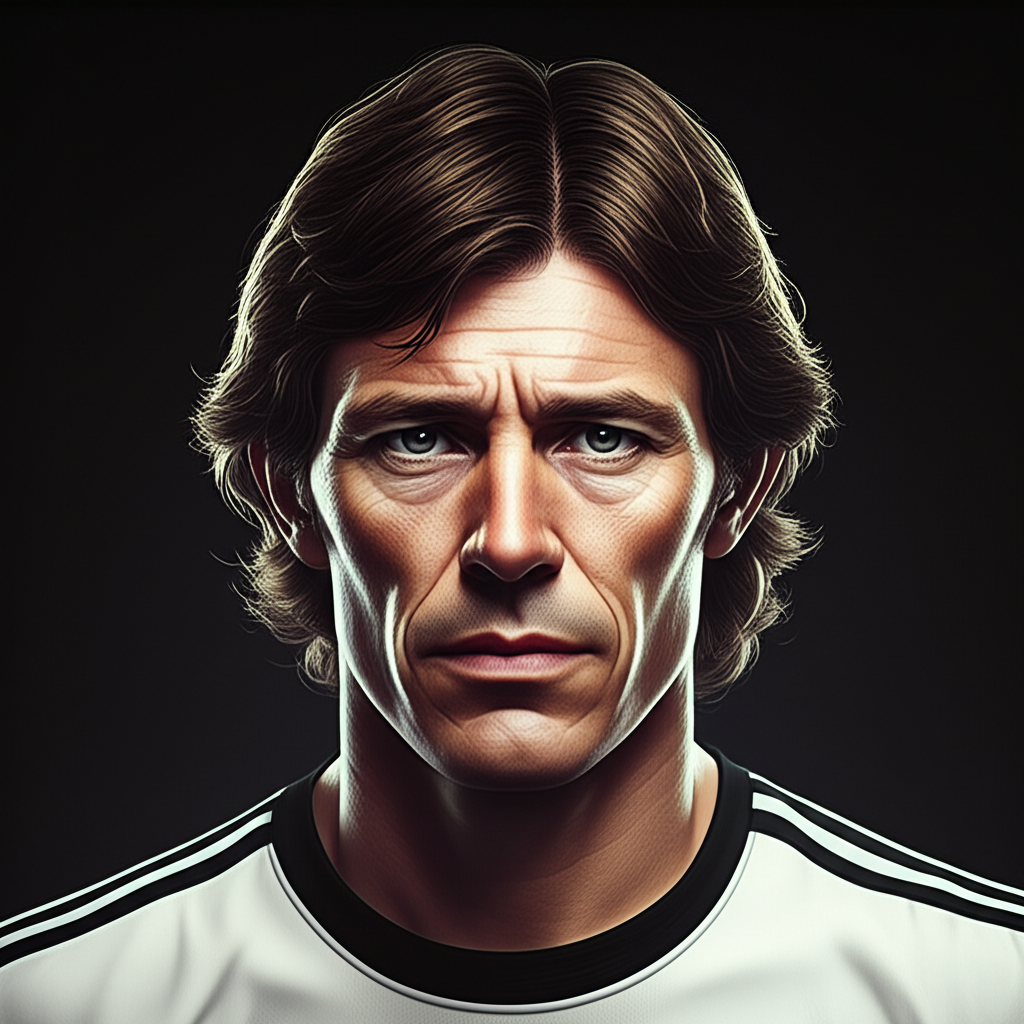
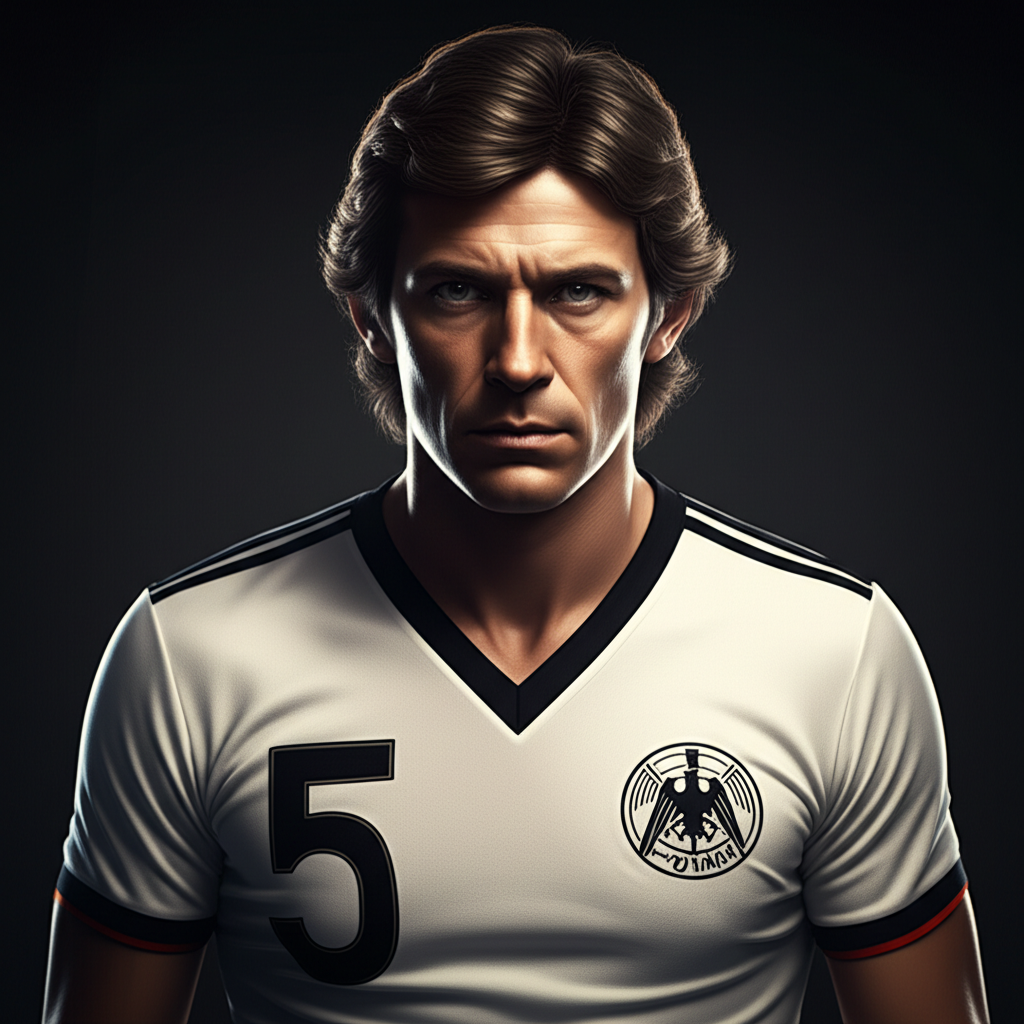
Regenerate legend images with head-to-waist shots
- Updated prompts to show full torso from head to waist
- Jerseys and kit numbers now clearly visible
- Prepares for merchandise showcase feature
- All 15 legends regenerated with new format

diff --git a/scripts/generate-images.ts b/scripts/generate-images.ts
@@ -140,81 +140,81 @@ const images: ImageSpec[] = [
     prompt: 'Professional product photo of black sports backpack with gold accents and logo, athletic style, on dark background, e-commerce style, centered'
   },
 
-  // LEGENDS - F1-Style Player Portraits (upper body, professional sports photography)
+  // LEGENDS - F1-Style Player Portraits (head to waist, showing jersey/kit)
   {
     filename: 'pele.png',
     folder: 'legends',
-    prompt: 'Professional sports portrait photo, Brazilian football legend, upper body shot from chest up, wearing yellow Brazil national team jersey, confident expression looking slightly to the side, clean dark gradient studio background, dramatic rim lighting, high-end sports photography style like F1 driver portraits, 4k quality'
+    prompt: 'Professional sports portrait, Brazilian football legend, HEAD TO WAIST shot showing full torso, wearing iconic yellow Brazil national team jersey with green trim and number 10, arms relaxed at sides, confident proud stance, clean dark gradient studio background, dramatic rim lighting, F1 driver portrait style showing full racing suit, 4k quality, jersey clearly visible'
   },
   {
     filename: 'maradona.png',
     folder: 'legends',
-    prompt: 'Professional sports portrait photo, Argentine football legend with curly dark hair, upper body shot from chest up, wearing Argentina blue and white striped jersey, intense passionate expression, clean dark gradient studio background, dramatic rim lighting, high-end sports photography style like F1 driver portraits, 4k quality'
+    prompt: 'Professional sports portrait, Argentine football legend with curly dark hair, HEAD TO WAIST shot showing full torso, wearing Argentina blue and white vertical striped jersey with number 10, arms crossed or at sides, passionate intense expression, clean dark gradient studio background, dramatic rim lighting, F1 driver portrait style, 4k quality, jersey clearly visible'
   },
   {
     filename: 'messi.png',
     folder: 'legends',
-    prompt: 'Professional sports portrait photo, modern Argentine football star with short beard, upper body shot from chest up, wearing Argentina light blue and white jersey, calm focused expression, clean dark gradient studio background, dramatic rim lighting, high-end sports photography style like F1 driver portraits, 4k quality'
+    prompt: 'Professional sports portrait, modern Argentine football star with short beard, HEAD TO WAIST shot showing full torso, wearing Argentina light blue and white striped jersey with number 10, relaxed confident pose, calm focused expression, clean dark gradient studio background, dramatic rim lighting, F1 driver portrait style, 4k quality, jersey clearly visible'
   },
   {
     filename: 'ronaldo.png',
     folder: 'legends',
-    prompt: 'Professional sports portrait photo, Portuguese football superstar with athletic build and short dark hair, upper body shot from chest up, wearing Portugal red jersey, confident determined expression, clean dark gradient studio background, dramatic rim lighting, high-end sports photography style like F1 driver portraits, 4k quality'
+    prompt: 'Professional sports portrait, Portuguese football superstar with athletic muscular build, HEAD TO WAIST shot showing full torso, wearing Portugal red jersey with number 7, powerful confident stance with arms at sides, determined expression, clean dark gradient studio background, dramatic rim lighting, F1 driver portrait style, 4k quality, jersey clearly visible'
   },
   {
     filename: 'r9.png',
     folder: 'legends',
-    prompt: 'Professional sports portrait photo, Brazilian striker legend from early 2000s, upper body shot from chest up, wearing Brazil yellow jersey number 9, confident smile, clean dark gradient studio background, dramatic rim lighting, high-end sports photography style like F1 driver portraits, 4k quality'
+    prompt: 'Professional sports portrait, Brazilian striker legend from 2002 World Cup, HEAD TO WAIST shot showing full torso, wearing Brazil yellow jersey with number 9, confident athletic stance, slight smile, clean dark gradient studio background, dramatic rim lighting, F1 driver portrait style, 4k quality, jersey clearly visible'
   },
   {
     filename: 'zidane.png',
     folder: 'legends',
-    prompt: 'Professional sports portrait photo, French football maestro with bald head, upper body shot from chest up, wearing France blue jersey, calm elegant expression, clean dark gradient studio background, dramatic rim lighting, high-end sports photography style like F1 driver portraits, 4k quality'
+    prompt: 'Professional sports portrait, French football maestro with bald head, HEAD TO WAIST shot showing full torso, wearing France blue jersey with number 10, elegant composed stance, calm expression, clean dark gradient studio background, dramatic rim lighting, F1 driver portrait style, 4k quality, jersey clearly visible'
   },
   {
     filename: 'beckenbauer.png',
     folder: 'legends',
-    prompt: 'Professional sports portrait photo, German football legend defender with classic 1970s hairstyle, upper body shot from chest up, wearing Germany white jersey, composed authoritative expression, clean dark gradient studio background, dramatic rim lighting, high-end sports photography style like F1 driver portraits, 4k quality'
+    prompt: 'Professional sports portrait, German football legend defender with classic 1970s hairstyle, HEAD TO WAIST shot showing full torso, wearing Germany white jersey with number 5, authoritative commanding stance, clean dark gradient studio background, dramatic rim lighting, F1 driver portrait style, 4k quality, jersey clearly visible'
   },
   {
     filename: 'cruyff.png',
     folder: 'legends',
-    prompt: 'Professional sports portrait photo, Dutch football total football pioneer with 1970s long hair, upper body shot from chest up, wearing Netherlands orange jersey, intelligent thoughtful expression, clean dark gradient studio background, dramatic rim lighting, high-end sports photography style like F1 driver portraits, 4k quality'
+    prompt: 'Professional sports portrait, Dutch football pioneer with 1970s long hair, HEAD TO WAIST shot showing full torso, wearing Netherlands bright orange jersey with number 14, intelligent thoughtful expression, clean dark gradient studio background, dramatic rim lighting, F1 driver portrait style, 4k quality, jersey clearly visible'
   },
   {
     filename: 'platini.png',
     folder: 'legends',
-    prompt: 'Professional sports portrait photo, French football playmaker from 1980s with wavy hair, upper body shot from chest up, wearing France blue jersey, sophisticated elegant expression, clean dark gradient studio background, dramatic rim lighting, high-end sports photography style like F1 driver portraits, 4k quality'
+    prompt: 'Professional sports portrait, French football playmaker from 1980s with wavy hair, HEAD TO WAIST shot showing full torso, wearing France blue jersey with number 10, sophisticated elegant stance, clean dark gradient studio background, dramatic rim lighting, F1 driver portrait style, 4k quality, jersey clearly visible'
   },
   {
     filename: 'baggio.png',
     folder: 'legends',
-    prompt: 'Professional sports portrait photo, Italian football artist with iconic ponytail hairstyle, upper body shot from chest up, wearing Italy azzurri blue jersey, artistic soulful expression, clean dark gradient studio background, dramatic rim lighting, high-end sports photography style like F1 driver portraits, 4k quality'
+    prompt: 'Professional sports portrait, Italian football artist with iconic ponytail hairstyle, HEAD TO WAIST shot showing full torso, wearing Italy azzurri blue jersey with number 10, artistic soulful expression, clean dark gradient studio background, dramatic rim lighting, F1 driver portrait style, 4k quality, jersey clearly visible'
   },
   {
     filename: 'maldini.png',
     folder: 'legends',
-    prompt: 'Professional sports portrait photo, Italian football defender legend with classic good looks, upper body shot from chest up, wearing Italy blue jersey, strong dignified expression, clean dark gradient studio background, dramatic rim lighting, high-end sports photography style like F1 driver portraits, 4k quality'
+    prompt: 'Professional sports portrait, Italian football defender legend with classic good looks, HEAD TO WAIST shot showing full torso, wearing Italy blue jersey with number 3, strong dignified stance, clean dark gradient studio background, dramatic rim lighting, F1 driver portrait style, 4k quality, jersey clearly visible'
   },
   {
     filename: 'muller.png',
     folder: 'legends',
-    prompt: 'Professional sports portrait photo, German striker legend from 1970s, upper body shot from chest up, wearing Germany white jersey, sharp focused expression, clean dark gradient studio background, dramatic rim lighting, high-end sports photography style like F1 driver portraits, 4k quality'
+    prompt: 'Professional sports portrait, German striker legend Gerd Muller from 1970s, HEAD TO WAIST shot showing full torso, wearing Germany white jersey with number 13, sharp focused expression, clean dark gradient studio background, dramatic rim lighting, F1 driver portrait style, 4k quality, jersey clearly visible'
   },
   {
     filename: 'cr7.png',
     folder: 'legends',
-    prompt: 'Professional sports portrait photo, Portuguese football superstar with chiseled features and styled hair, upper body shot from chest up, wearing red jersey number 7, confident powerful expression, clean dark gradient studio background, dramatic rim lighting, high-end sports photography style like F1 driver portraits, 4k quality'
+    prompt: 'Professional sports portrait, Portuguese football superstar with chiseled athletic physique, HEAD TO WAIST shot showing full torso, wearing Portugal red jersey with number 7, confident powerful pose with hands on hips, clean dark gradient studio background, dramatic rim lighting, F1 driver portrait style, 4k quality, jersey clearly visible'
   },
   {
     filename: 'ronaldinho.png',
     folder: 'legends',
-    prompt: 'Professional sports portrait photo, Brazilian football magician with long curly hair and iconic big smile, upper body shot from chest up, wearing Brazil yellow jersey, joyful charismatic expression, clean dark gradient studio background, dramatic rim lighting, high-end sports photography style like F1 driver portraits, 4k quality'
+    prompt: 'Professional sports portrait, Brazilian football magician with long curly hair and iconic big smile showing teeth, HEAD TO WAIST shot showing full torso, wearing Brazil yellow jersey with number 10, joyful charismatic pose, clean dark gradient studio background, dramatic rim lighting, F1 driver portrait style, 4k quality, jersey clearly visible'
   },
   {
     filename: 'henry.png',
     folder: 'legends',
-    prompt: 'Professional sports portrait photo, French striker legend with athletic build, upper body shot from chest up, wearing France blue jersey, cool composed expression, clean dark gradient studio background, dramatic rim lighting, high-end sports photography style like F1 driver portraits, 4k quality'
+    prompt: 'Professional sports portrait, French striker legend Thierry Henry with athletic build, HEAD TO WAIST shot showing full torso, wearing France blue jersey with number 12, cool composed confident stance, clean dark gradient studio background, dramatic rim lighting, F1 driver portrait style, 4k quality, jersey clearly visible'
   },
 
   // BANNERS
